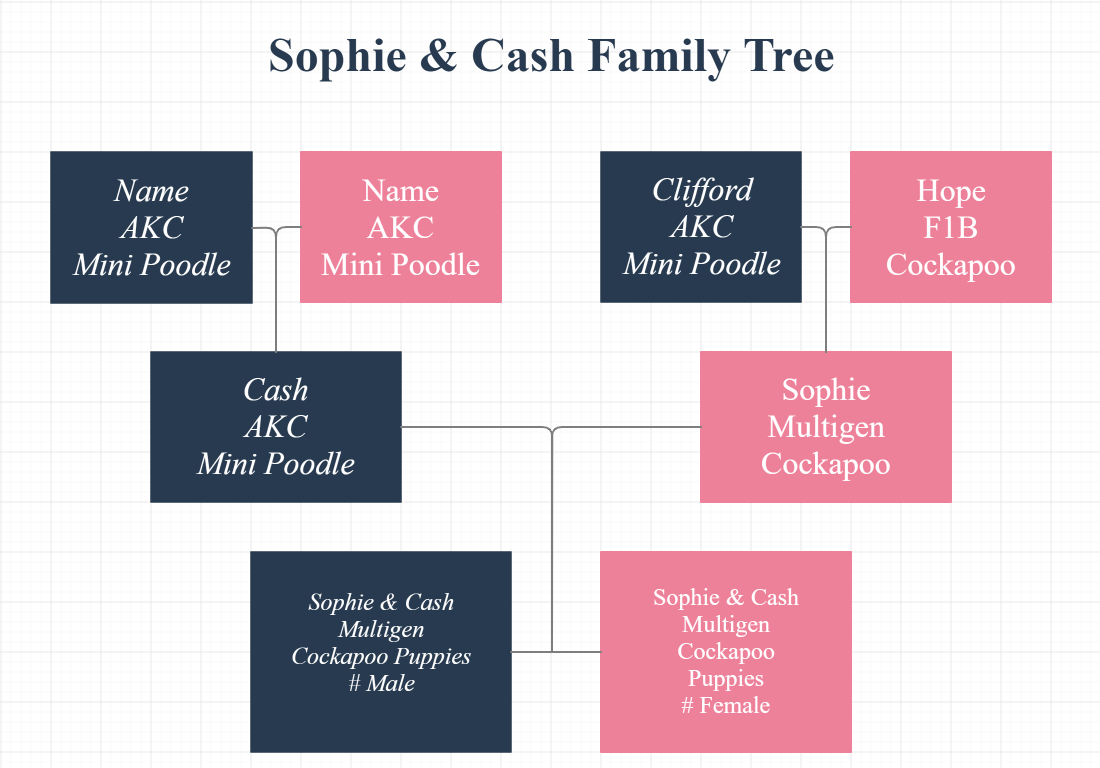
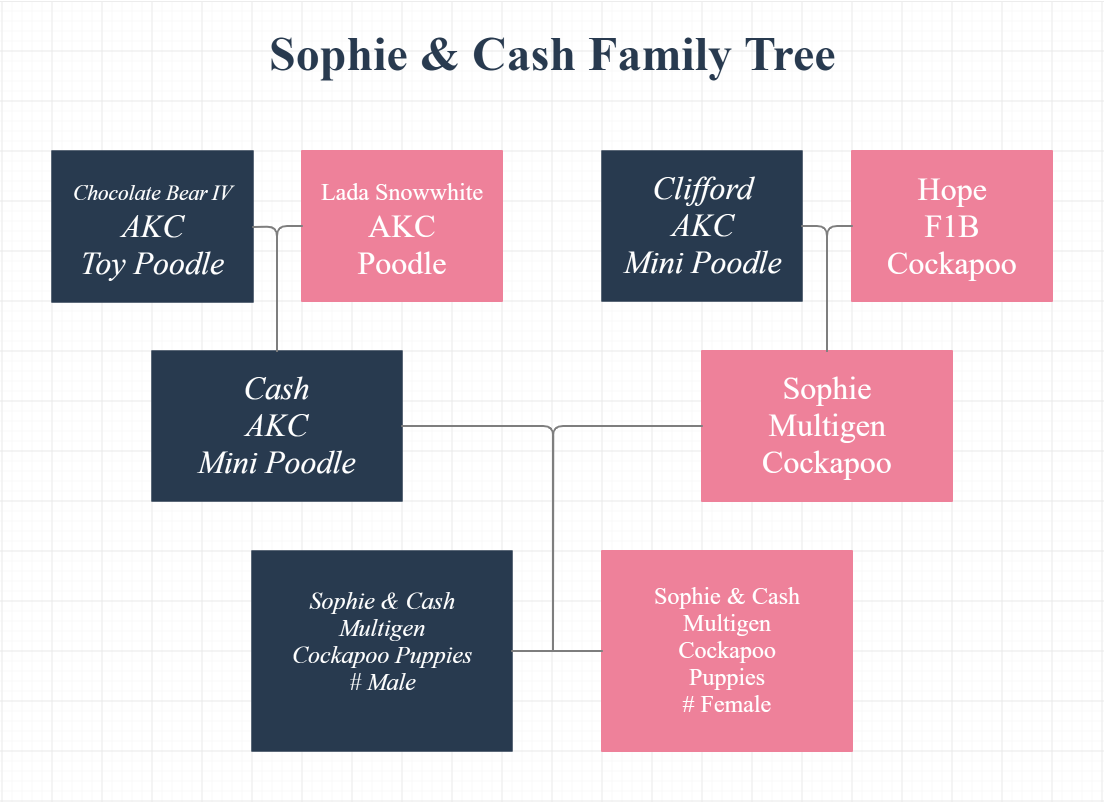
Family Tree updated and checkout page started

diff --git a/checkout.html b/checkout.html
@@ -1,0 +1,52 @@
+<!DOCTYPE HTML>
+
+<html>
+	<head>
+		<title>Bluegrass Doodles</title>
+		<meta charset="utf-8" />
+		<meta name="viewport" content="width=device-width, initial-scale=1, user-scalable=no" />
+		<link rel="stylesheet" href="assets/css/main.css" />
+	</head>
+	<body class="homepage is-preload">
+		<div id="page-wrapper">
+
+			<!-- Header -->
+				<section id="header" class="wrapper">
+
+					<!-- Logo -->
+						<div id="logo">
+                            <h1><a href="index.html">Bluegrass Doodles</a></h1>
+                            </header>
+
+                        </div>
+                        
+
+					<!-- Nav -->
+						<nav id="nav">
+							<ul>
+								<li class="current"><a href="index.html">Home</a></li>
+								<li>
+									<a href="currentpups.html">Available Pups</a>
+									<!-- <ul> -->
+										<!-- <li><a href="#">Sophie & Cash Pups</a></li> -->
+									<!-- </ul> -->
+                                </li>
+                                
+                                <li>
+									<a href="#">Coming Soon</a>
+									<ul>
+										<li><a href="sophie-cash.html">Sophie & Cash's Puppies</a></li>
+									</ul>
+                                </li>
+
+								<li><a href="application.html">Application</a></li>
+								<li><a href="about.html">About Us</a></li>
+							</ul>
+                        </nav>
+                            
+                        
+
+                </section>
+
+                <!-- Checkout Form -->
+                
